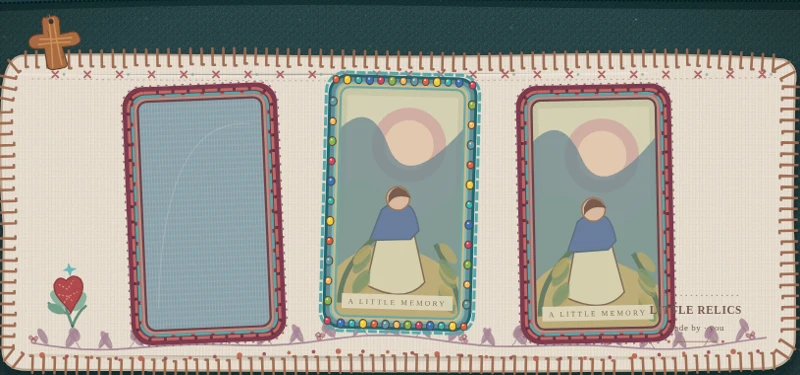
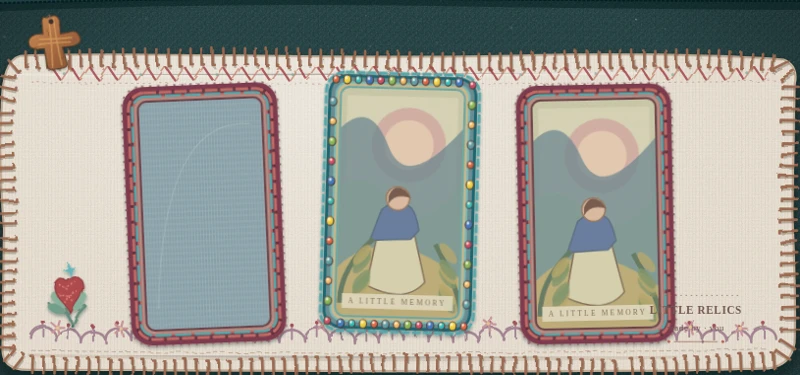
relics: original stitch motifs + fabric realism
Replace the vine wreath and cross-stitch rows with original
motifs: herringbone chevron band along the top edge and a
scalloped blanket-stitch hem with lazy-daisy sprigs at the
bottom.

Add material realism: wobble displacement on all thread
strokes, drop shadows under layers, glossy bead gradient,
wood gradient on the charm, cloth grain/sheen/edge shading.

diff --git a/relics.html b/relics.html
@@ -99,30 +99,37 @@ function defs(){const c=C();return `<defs>
 <filter id="feltGrain" x="0" y="0" width="100%" height="100%"><feTurbulence type="fractalNoise" baseFrequency=".59" numOctaves="3" seed="13" result="n"/><feColorMatrix in="n" type="saturate" values="0"/></filter>
 <filter id="clothGrain" x="0" y="0" width="100%" height="100%"><feTurbulence type="fractalNoise" baseFrequency=".8" numOctaves="2" seed="7"/><feColorMatrix type="saturate" values="0"/></filter>
 <filter id="soft"><feGaussianBlur stdDeviation="2.2"/></filter>
+<filter id="lift" x="-25%" y="-25%" width="150%" height="160%"><feDropShadow dx="0" dy="6" stdDeviation="5" flood-color="#1a2622" flood-opacity=".42"/></filter>
+<filter id="liftSm" x="-30%" y="-30%" width="160%" height="170%"><feDropShadow dx="0" dy="3" stdDeviation="2.5" flood-color="#1a2622" flood-opacity=".4"/></filter>
+<filter id="wobble" x="-5%" y="-5%" width="110%" height="110%"><feTurbulence type="fractalNoise" baseFrequency=".035" numOctaves="2" seed="5" result="t"/><feDisplacementMap in="SourceGraphic" in2="t" scale="7"/></filter>
+<radialGradient id="beadGrad" cx="35%" cy="28%" r="75%"><stop offset="0" stop-color="#fff" stop-opacity=".65"/><stop offset=".45" stop-color="#fff" stop-opacity="0"/><stop offset="1" stop-color="#000" stop-opacity=".32"/></radialGradient>
+<linearGradient id="woodGrad" x1="0" y1="0" x2="1" y2="1"><stop offset="0" stop-color="#c98d55"/><stop offset=".5" stop-color="#a96b43"/><stop offset="1" stop-color="#7d4e2f"/></linearGradient>
+<radialGradient id="edgeShade" cx="50%" cy="50%" r="72%"><stop offset="0" stop-color="#5a4636" stop-opacity="0"/><stop offset=".82" stop-color="#5a4636" stop-opacity="0"/><stop offset="1" stop-color="#4a382a" stop-opacity=".3"/></radialGradient>
+<radialGradient id="clothSheen" cx="42%" cy="30%" r="70%"><stop offset="0" stop-color="#fff" stop-opacity=".3"/><stop offset=".6" stop-color="#fff" stop-opacity=".05"/><stop offset="1" stop-color="#fff" stop-opacity="0"/></radialGradient>
 <radialGradient id="vignette" cx="50%" cy="46%" r="72%"><stop offset="55%" stop-color="#000" stop-opacity="0"/><stop offset="100%" stop-color="#000" stop-opacity=".4"/></radialGradient>
 <clipPath id="clothMask"><path d="${shape}"/></clipPath>
 ${S.layers.filter(l=>l.type==='frame').map(l=>`<clipPath id="clip-${escapeHTML(l.id)}"><rect x="${-l.w/2}" y="${-l.h/2}" width="${l.w}" height="${l.h}" rx="12"/></clipPath>`).join('')}
 </defs>`}
 function feltDust(){let o='';for(let i=0;i<380;i++){let x=(i*67.31)%1194+3,y=(i*121.73)%754+3,r=.35+(i%9)*.2;o+=`<circle cx="${rnd(x)}" cy="${rnd(y)}" r="${r}" fill="${i%4===0?'#f7efe2':'#9baaaa'}" opacity="${.07+(i%6)*.025}"/>`;}return o}
 function background(){let c=C();return `<rect width="1200" height="760" fill="url(#felt)"/>${S.background?`<image href="${S.background}" width="1200" height="760" preserveAspectRatio="xMidYMid slice" opacity="${S.backgroundOpacity}"/>`:''}<rect width="1200" height="760" filter="url(#feltGrain)" opacity=".18"/>${feltDust()}<rect width="1200" height="760" fill="url(#vignette)"/><path d="M-8 96 Q300 81 626 86 T1210 92" stroke="#021e1e" stroke-width="21" opacity=".5" fill="none"/><path d="M-8 90 Q300 79 626 81 T1210 85" stroke="#23474b" stroke-width="10" opacity=".7" fill="none"/><path d="M-8 95 Q300 84 626 87 T1210 90" stroke="#061d21" stroke-width="3" stroke-dasharray="4 2" fill="none"/><g fill="#c6d9d4"><g transform="translate(177 39) scale(1.25) translate(-177 -39)" opacity=".8"><path d="M177 39l3 6 7 2-6 5-1 7-6-5-7 1 2-7-4-5 7 0Z"/></g><g transform="translate(653 45) scale(.7) translate(-653 -45)" opacity=".55"><path d="M653 45l3 4 5 0-2 5 2 4-5-1-4 3-1-6-4-3 5-2Z"/></g><circle cx="548" cy="58" r="2.4" opacity=".7"/><circle cx="923" cy="115" r="1.2" opacity=".45"/><circle cx="420" cy="72" r="1.4" opacity=".5"/><g transform="translate(1150 142) scale(.95) translate(-1150 -142)" opacity=".7"><path d="M1150 142l4 4 6-2-1 6 4 4-6 1-2 5-3-5-5-1 4-5Z"/></g></g>`}
-function cloth(){let c=C(),s=pathToStitches(perimeter);return `<g filter="url(#paperShade)"><path d="${shape}" fill="url(#linen)" stroke="#cbb9a2" stroke-width="3"/></g><g clip-path="url(#clothMask)"><rect width="1200" height="760" filter="url(#clothGrain)" opacity=".13"/><path d="M72 190Q470 196 940 188" stroke="#fff" stroke-width="3" opacity=".23"/><path d="M90 572Q500 584 980 575" stroke="#896b50" opacity=".17" stroke-width="4"/></g><path d="${s}" fill="none" stroke="${c.thread}" stroke-width="3.5" stroke-linejoin="round" stroke-linecap="round" opacity=".96"/><path d="${shape}" fill="none" stroke="${c.thread}" stroke-width="1.1" opacity=".43"/>`}
+function cloth(){let c=C(),s=pathToStitches(perimeter);return `<g filter="url(#paperShade)"><path d="${shape}" fill="url(#linen)" stroke="#cbb9a2" stroke-width="3"/></g><g clip-path="url(#clothMask)"><rect width="1200" height="760" filter="url(#clothGrain)" opacity=".22"/><rect width="1200" height="760" fill="url(#edgeShade)"/><rect width="1200" height="760" fill="url(#clothSheen)"/><path d="M72 190Q470 196 940 188" stroke="#fff" stroke-width="3" opacity=".23"/><path d="M90 572Q500 584 980 575" stroke="#896b50" opacity=".17" stroke-width="4"/></g><g filter="url(#wobble)"><path d="${s}" fill="none" stroke="#4a3826" stroke-width="5" stroke-linejoin="round" opacity=".3" transform="translate(.8 2.2)"/><path d="${s}" fill="none" stroke="${c.thread}" stroke-width="3.5" stroke-linejoin="round" stroke-linecap="round" opacity=".96"/></g><path d="${shape}" fill="none" stroke="${c.thread}" stroke-width="1.1" opacity=".43"/>`}
 function blossom(x,y,s,rot,c1,c2){return `<g transform="translate(${x} ${y}) rotate(${rot}) scale(${s})"><path d="M0 0C-2-7-8-8-8-1Q-4 5 0 0C5-8 11-4 7 2Q2 5 0 0C-8 5-2 11 2 6Q4 3 0 0C9 3 6 11-1 8Q-4 4 0 0" fill="${c1}" stroke="${c2}" stroke-width="1.2"/><circle r="2.3" fill="${c2}"/></g>`}
-function bottomGarland(){let c=C(),out='',n=46;let coords=[];for(let i=0;i<=n;i++){let t=i/n,x=98+t*1004,y=556+7*Math.sin(t*Math.PI*3.2)+4*Math.sin(t*23);coords.push([x,y,t]);if(i%9===0)out+=blossom(rnd(x),rnd(y-6),.75,rnd(t*340),'#c99095','#8f5f66')}out+=`<path d="M${coords.map(p=>`${rnd(p[0])} ${rnd(p[1])}`).join(' L')}" fill="none" stroke="${c.violet}" stroke-width="2.3" opacity=".95"/>`;for(let i=1;i<n;i++){let [x,y]=coords[i],d=i%3===0?20:13,side=i%2?-1:1,px=x+side*9,py=y-d;out+=`<path d="M${rnd(x)} ${rnd(y)} Q${rnd(x+side*9)} ${rnd(y-d*.45)} ${rnd(px)} ${rnd(py)}" stroke="${c.violet}" stroke-width="1.3" fill="none"/><ellipse cx="${rnd(px)}" cy="${rnd(py)}" rx="${rnd(4+(i%4))}" ry="${rnd(10+(i%3)*2)}" transform="rotate(${rnd(side*30)} ${rnd(px)} ${rnd(py)})" fill="${c.violet}" opacity=".84"/><path d="M${rnd(x)} ${rnd(y-4)}L${rnd(px)} ${rnd(py)}" stroke="#e2c0bc" stroke-width=".7" opacity=".6"/>`}for(let i=0;i<30;i++){let t=i/29,x=110+t*980,y=572+5*Math.sin(t*11);out+=`<circle cx="${rnd(x)}" cy="${rnd(y)}" r="${i%4?2.5:3.7}" fill="${i%2?'#a04c52':'#bd6654'}"/>`}return `<g opacity=".94">${out}</g>`}
-function crossBand(){let c=C(),out='';for(let x=128;x<1110;x+=44){out+=`<path d="M${x-4} 186l8 8m-8 0l8 -8" stroke="#a34348" stroke-width="2.6" stroke-linecap="round" opacity=".78"/>`}for(let x=140;x<1110;x+=88){out+=`<circle cx="${x}" cy="190" r="2" fill="#7fa59c" opacity=".7"/>`}out+=`<path d="M96 196Q600 202 1120 194" stroke="${c.thread}" stroke-width="1.4" opacity=".4" fill="none" stroke-dasharray="3 5"/>`;return out}
+function hemStitch(){let c=C(),out='';for(let x=95;x<1105;x+=34){let y=552+3*Math.sin(x*.05);out+=`<path d="M${x} ${y}a17 15 0 0 1 34 0" fill="none" stroke="${c.violet}" stroke-width="3.4" stroke-linecap="round"/><path d="M${x+17} ${y-2}v-16" stroke="${c.violet}" stroke-width="2.6" stroke-linecap="round"/><circle cx="${x+17}" cy="${y-21}" r="2.6" fill="#a04c52"/>`}for(let i=0;i<14;i++){let x=130+i*72+((i*37)%20),y=534+4*Math.sin(i*2.1);for(let p=0;p<5;p++){let a=p/5*Math.PI*2;out+=`<path d="M${x} ${y}Q${x+Math.cos(a)*6} ${y+Math.sin(a)*6} ${x+Math.cos(a)*9} ${y+Math.sin(a)*10}" stroke="#c99095" stroke-width="3" fill="none" stroke-linecap="round"/>`}out+=`<circle cx="${x}" cy="${y}" r="2.4" fill="#e0c68d"/>`}out+=`<path d="M95 566Q600 574 1105 564" stroke="${c.thread}" stroke-width="1.3" opacity=".5" fill="none" stroke-dasharray="6 4"/>`;return `<g filter="url(#wobble)"><g opacity=".94">${out}</g></g>`}
+function crossBand(){let c=C(),out='';for(let x=124;x<1108;x+=26){let flip=(x/26)%2?1:-1;out+=`<path d="M${x} 181l${11*flip} 16" stroke="#a34348" stroke-width="3" stroke-linecap="round" opacity=".85"/><path d="M${x+13} 197l${11*flip} -16" stroke="#c07a63" stroke-width="2.2" stroke-linecap="round" opacity=".7"/>`}for(let x=140;x<1110;x+=104){out+=`<circle cx="${x}" cy="189" r="2" fill="#7fa59c" opacity=".7"/>`}out+=`<path d="M96 201Q600 206 1120 199" stroke="${c.thread}" stroke-width="1.4" opacity=".4" fill="none" stroke-dasharray="3 5"/>`;return `<g filter="url(#wobble)">${out}</g>`}
 function bluePlaceholder(w,h){return `<rect x="${-w/2}" y="${-h/2}" width="${w}" height="${h}" fill="url(#blueLinen)"/><path d="M${-w/2+16} ${h/2-28}Q-52 ${-h/2+20} 68 ${-h/2+35}" fill="none" stroke="#ccd3ca" opacity=".3" stroke-width="1.5"/>${Array.from({length:40},(_,i)=>{let x=(i*37)%w-w/2,y=(i*61)%h-h/2;return `<path d="M${x} ${y}l3 3" stroke="#d6e1de" opacity=".18"/>`}).join('')}`}
 function artPlaceholder(w,h){let x=-w/2,y=-h/2;return `<rect x="${x}" y="${y}" width="${w}" height="${h}" fill="url(#parchment)"/><rect x="${x+8}" y="${y+10}" width="${w-16}" height="${h-20}" fill="#ddd7bd" opacity=".6"/><circle cx="10" cy="${y+76}" r="51" fill="#cfa8a0" opacity=".85"/><circle cx="10" cy="${y+76}" r="34" fill="#e5cdb2" opacity=".85"/><path d="M${x} ${y+55} Q${x+40} ${y+15} ${x+66} ${y+78}T${x+w} ${y+52} L${x+w} ${y+h}H${x}Z" fill="#6e8790" opacity=".75"/><path d="M${x} ${y+134} Q-45 ${y+110} -10 ${y+155}T${x+w} ${y+128}L${x+w} ${y+h}H${x}Z" fill="#819c92" opacity=".6"/><path d="M${x} ${y+h-65}Q${x+67} ${y+h-132} ${x+w} ${y+h-55}V${y+h}H${x}Z" fill="#bcac79"/><path d="M-23 ${y+165}Q-5 ${y+142} 13 ${y+166}L37 ${y+h-48}Q10 ${y+h-16}-43 ${y+h-42}Z" fill="#d4cfac" stroke="#816c5a" stroke-width="2"/><path d="M-25 ${y+165}Q-5 ${y+148} 10 ${y+158}Q21 ${y+160} 27 ${y+192}L16 ${y+204}L-40 ${y+207}Z" fill="#6a7e9e" stroke="#5d6e80" stroke-width="2"/><circle cx="-3" cy="${y+149}" r="16" fill="#d9b9a0" stroke="#97785b" stroke-width="2"/><path d="M-16 ${y+146}Q-8 ${y+127} 7 ${y+138}L15 ${y+148}Q-7 ${y+141}-16 ${y+157}Z" fill="#785d4f"/><path d="M-35 ${y+205}q-45 42-44 88M50 ${y+210}q34 60 37 94" stroke="#697c65" stroke-width="7" fill="none"/>${Array.from({length:13},(_,i)=>{let xp=i%2?-50:68,yp=y+222+(i*17)%74;return `<ellipse cx="${xp}" cy="${yp}" rx="7" ry="17" transform="rotate(${i%2?40:-40} ${xp} ${yp})" fill="${i%3?'#83966e':'#b6a66c'}" opacity=".8"/>`}).join('')}<rect x="${x+8}" y="${y+h-30}" width="${w-16}" height="20" fill="#e0d9c0" opacity=".88"/><text x="0" y="${y+h-16}" font-family="Georgia,serif" font-size="10" letter-spacing="3" fill="#86705c" text-anchor="middle">A LITTLE MEMORY</text>`}
 function frame(l){let c=C(),w=l.w,h=l.h,ex=w/2,ey=h/2,bead=l.frame==='bead';let s=`<g clip-path="url(#clip-${escapeHTML(l.id)})">${l.image?`<image href="${l.image}" x="${-ex}" y="${-ey}" width="${w}" height="${h}" preserveAspectRatio="xMidYMid slice"/>`:(l.id==='frameA'?bluePlaceholder(w,h):artPlaceholder(w,h))}</g>`;
 s=`<rect x="${-ex-18}" y="${-ey-18}" width="${w+36}" height="${h+36}" rx="27" fill="${bead?'#29464a':'#684653'}" opacity=".35"/><rect x="${-ex-16}" y="${-ey-16}" width="${w+32}" height="${h+32}" rx="24" fill="${bead?'#6a8c92':'#6d3c48'}" stroke="${bead?'#1c6670':'#5b2e38'}" stroke-width="4"/><rect x="${-ex-7}" y="${-ey-7}" width="${w+14}" height="${h+14}" rx="16" fill="${bead?'#cdb889':'#b68f86'}" stroke="${bead?'#7eb9b4':'#b66f69'}" stroke-width="3"/>${s}<rect x="${-ex-1}" y="${-ey-1}" width="${w+2}" height="${h+2}" rx="12" fill="none" stroke="${bead?'#6ca7a3':'#6c4249'}" stroke-width="3"/>`;
-if(bead){const colors=['#df633e','#f2ce37','#2fbbb6','#3975bb','#d14862','#86b54e','#f3b95f','#5d9ca4'];let arr=[];for(let i=0;i<48;i++){let a=i/48*Math.PI*2,xx,yy,offset=8;const seg=i/12|0,t=(i%12)/12;if(seg===0){xx=-ex-8+t*(w+16);yy=-ey-11}else if(seg===1){xx=ex+11;yy=-ey-8+t*(h+16)}else if(seg===2){xx=ex+8-t*(w+16);yy=ey+11}else{xx=-ex-11;yy=ey+8-t*(h+16)}arr.push(`<ellipse cx="${rnd(xx)}" cy="${rnd(yy)}" rx="${i%2?5:4.5}" ry="${i%2?6:5}" fill="${colors[i%colors.length]}" stroke="#5b4641" stroke-width="1.5"/><circle cx="${rnd(xx-1)}" cy="${rnd(yy-2)}" r="1.3" fill="#fff8da" opacity=".75"/>`)}s+=`<rect x="${-ex-21}" y="${-ey-21}" width="${w+42}" height="${h+42}" rx="26" fill="none" stroke="${c.accent}" stroke-dasharray="12 3" stroke-width="4"/>${arr.join('')}`}
+if(bead){const colors=['#df633e','#f2ce37','#2fbbb6','#3975bb','#d14862','#86b54e','#f3b95f','#5d9ca4'];let arr=[];for(let i=0;i<48;i++){let a=i/48*Math.PI*2,xx,yy,offset=8;const seg=i/12|0,t=(i%12)/12;if(seg===0){xx=-ex-8+t*(w+16);yy=-ey-11}else if(seg===1){xx=ex+11;yy=-ey-8+t*(h+16)}else if(seg===2){xx=ex+8-t*(w+16);yy=ey+11}else{xx=-ex-11;yy=ey+8-t*(h+16)}arr.push(`<ellipse cx="${rnd(xx)}" cy="${rnd(yy)}" rx="${i%2?5:4.5}" ry="${i%2?6:5}" fill="${colors[i%colors.length]}" stroke="#5b4641" stroke-width="1.5"/><ellipse cx="${rnd(xx)}" cy="${rnd(yy)}" rx="${i%2?5:4.5}" ry="${i%2?6:5}" fill="url(#beadGrad)"/><circle cx="${rnd(xx-1)}" cy="${rnd(yy-2)}" r="1.3" fill="#fff8da" opacity=".8"/>`)}s+=`<rect x="${-ex-21}" y="${-ey-21}" width="${w+42}" height="${h+42}" rx="26" fill="none" stroke="${c.accent}" stroke-dasharray="12 3" stroke-width="4"/>${arr.join('')}`}
 else{s+=`<rect x="${-ex-19}" y="${-ey-18}" width="${w+38}" height="${h+36}" rx="25" fill="none" stroke="#7e3a4f" stroke-width="6"/><rect x="${-ex-14}" y="${-ey-13}" width="${w+28}" height="${h+26}" rx="22" fill="none" stroke="#c06b65" stroke-width="4" stroke-dasharray="17 4"/><rect x="${-ex-9}" y="${-ey-8}" width="${w+18}" height="${h+16}" rx="19" fill="none" stroke="${c.accent}" stroke-width="3.5" stroke-dasharray="22 5"/><rect x="${-ex-23}" y="${-ey-22}" width="${w+46}" height="${h+44}" rx="28" fill="none" stroke="#8e6b62" stroke-width="2" stroke-dasharray="3 8"/>`}
 return s}
-function woodCharm(){return `<path d="M-17 -73Q-26 -80-29 -63L-30 -30Q-64 -35-71 -16Q-76 6-51 9L-31 10L-29 55Q-28 71-12 70L17 68Q28 66 25 53L18 12L48 12Q77 7 68-11Q64-31 42-26L17-24L19-61Q15-80-2-75Z" fill="#a96b43" stroke="#5e402a" stroke-width="3"/><path d="M-10-64Q-8-20-15 65M3-70Q4 1 11 61M-42-17Q-9-12 48-11M-47-3Q-5-4 43 1" stroke="#e2af65" stroke-width="4" opacity=".6" fill="none"/><path d="M-20-41Q-12-33-15-21M12 23Q22 37 15 45M-59 3Q-52 6-45 4" stroke="#6d442c" stroke-width="2.5" opacity=".5" fill="none"/><circle cx="-4" cy="-61" r="7" fill="#3b3330"/><path d="M-6-70v-9" stroke="#8c6d60" stroke-width="3"/><path d="M-4-79c-10-3-11 7-9 10" stroke="#725d4c" stroke-width="2" fill="none"/>`}
-function embroideredFlower(){let c=C();return `<path d="M0 15Q-7-16-10-33M0 14Q11-6 24-13M-2-5Q-23-10-31-25" stroke="#638b7c" stroke-width="4" stroke-linecap="round" fill="none"/><ellipse cx="-14" cy="-29" rx="9" ry="17" fill="#8ab29b" transform="rotate(-42 -14 -29)"/><ellipse cx="15" cy="-21" rx="9" ry="16" fill="#8ab29b" transform="rotate(41 15 -21)"/><ellipse cx="-21" cy="-15" rx="7" ry="14" fill="#739e8b" transform="rotate(-60 -21 -15)"/><path d="M0-6C-5-20-24-34-19-52Q-10-66 0-55Q12-66 22-54Q29-38 9-18Z" fill="#af4b4d" stroke="#913b41" stroke-width="2"/><path d="M-12-51l12 9 11-12M-15-36l15 5 15-5M-8-22L0-31l6 9" stroke="#dd8b7c" fill="none" stroke-width="2" stroke-dasharray="3 3"/><path d="M7-82l3 9 9 2-9 3-3 8-3-9-8-2 8-3Z" fill="#68b6bb"/><circle cy="14" r="2" fill="#47675c"/>`}
+function woodCharm(){return `<path d="M-17 -73Q-26 -80-29 -63L-30 -30Q-64 -35-71 -16Q-76 6-51 9L-31 10L-29 55Q-28 71-12 70L17 68Q28 66 25 53L18 12L48 12Q77 7 68-11Q64-31 42-26L17-24L19-61Q15-80-2-75Z" fill="url(#woodGrad)" stroke="#5e402a" stroke-width="3"/><path d="M-10-64Q-8-20-15 65M3-70Q4 1 11 61M-42-17Q-9-12 48-11M-47-3Q-5-4 43 1" stroke="#e2af65" stroke-width="4" opacity=".6" fill="none"/><path d="M-20-41Q-12-33-15-21M12 23Q22 37 15 45M-59 3Q-52 6-45 4" stroke="#6d442c" stroke-width="2.5" opacity=".5" fill="none"/><circle cx="-4" cy="-61" r="7" fill="#3b3330"/><path d="M-6-70v-9" stroke="#8c6d60" stroke-width="3"/><path d="M-4-79c-10-3-11 7-9 10" stroke="#725d4c" stroke-width="2" fill="none"/>`}
+function embroideredFlower(){let c=C();return `<g filter="url(#wobble)"><path d="M0 15Q-7-16-10-33M0 14Q11-6 24-13M-2-5Q-23-10-31-25" stroke="#638b7c" stroke-width="4" stroke-linecap="round" fill="none"/><ellipse cx="-14" cy="-29" rx="9" ry="17" fill="#8ab29b" transform="rotate(-42 -14 -29)"/><ellipse cx="15" cy="-21" rx="9" ry="16" fill="#8ab29b" transform="rotate(41 15 -21)"/><ellipse cx="-21" cy="-15" rx="7" ry="14" fill="#739e8b" transform="rotate(-60 -21 -15)"/><path d="M0-6C-5-20-24-34-19-52Q-10-66 0-55Q12-66 22-54Q29-38 9-18Z" fill="#af4b4d" stroke="#913b41" stroke-width="2"/><path d="M-12-51l12 9 11-12M-15-36l15 5 15-5M-8-22L0-31l6 9" stroke="#dd8b7c" fill="none" stroke-width="2" stroke-dasharray="3 3"/><path d="M7-82l3 9 9 2-9 3-3 8-3-9-8-2 8-3Z" fill="#68b6bb"/><circle cy="14" r="2" fill="#47675c"/></g>`}
 function flowerDecor(l){return embroideredFlower()}
 function motif(l){let type=l.type;switch(type){case 'frame':return frame(l);case 'charm':return woodCharm();case 'flower':return embroideredFlower();case 'sprig':return `<path d="M0 61Q-3 0 2-59" stroke="#8c8696" fill="none" stroke-width="3"/>${Array.from({length:11},(_,i)=>{let y=-53+i*11,side=i%2?-1:1;return `<path d="M0 ${y+4}Q${side*13} ${y-15} ${side*34} ${y-12}Q${side*18} ${y+6} 0 ${y+4}Z" fill="${C().violet}" stroke="#d8b2bb" stroke-width="1.2"/>`}).join('')}`;case 'patch':return `<path d="M-69-51Q-5-57 66-50L74 43Q13 54-67 48Z" fill="${C().plum}" stroke="${C().thread}" stroke-width="2"/><path d="M-59 -43L56 -41L61 37L-58 37Z" fill="none" stroke="#c8a0a4" stroke-width="2.2" stroke-dasharray="9 5"/>`;case 'star':return `<path d="M0-48L10-12L45-5L13 12L0 48L-11 12L-46-4L-10-13Z" fill="#b88a6a" stroke="#745143" stroke-width="3"/><path d="M0-42v84M-38-4h76" stroke="#f8deb1" stroke-dasharray="3 5" stroke-width="3"/>`;case 'label':return `<g text-anchor="middle" fill="${S.text.color||'#74584f'}"><path d="M-63-37H63" stroke="${C().thread}" stroke-width="1" stroke-dasharray="2 5"/><text y="-12" font-family="${S.text.font==='sans'?'Arial,sans-serif':S.text.font==='italic'?'Georgia,serif':'Georgia,serif'}" font-style="${S.text.font==='italic'?'italic':'normal'}" font-size="${S.text.size||18}" letter-spacing="1" font-weight="600" textLength="${Math.min(138,Math.max(45,S.text.title.length*(S.text.size||18)*.54))}" lengthAdjust="spacingAndGlyphs">${escapeHTML(S.text.title)}</text><text y="11" font-family="Georgia,serif" font-size="12" letter-spacing=".8">${escapeHTML(S.text.maker)}</text><path d="M-30 26h60" stroke="${C().thread}" stroke-width="1"/><circle cx="-37" cy="26" r="2" fill="#b76760"/><circle cx="37" cy="26" r="2" fill="#b76760"/></g>`;default:return ''}}
 function bgEmbroidery(){let out='';for(let i=0;i<7;i++){const x=490+i*11,y=690+(i%3)*6;out+=`<path d="M${x} ${y}q8-18 16-1q7 8 15-3" stroke="#0d1620" stroke-width="2.1" opacity=".34" fill="none"/>`}return `<path d="M360 749Q430 690 492 710T600 706T730 709T875 748" fill="none" stroke="#0b1f26" stroke-width="5" opacity=".38"/><path d="M430 752Q498 676 549 700Q590 717 612 662Q634 706 694 693T805 756" fill="none" stroke="#15292e" stroke-width="6" opacity=".32"/>${out}`}
 function controlOutline(l){if(S.selected!==l.id)return '';let w=l.w/2+26,h=l.h/2+26;return `<g pointer-events="none"><rect x="${-w}" y="${-h}" width="${w*2}" height="${h*2}" rx="8" stroke="#e0c68d" stroke-dasharray="7 5" stroke-width="2.5" fill="none"/><path d="M0 ${-h}v-28" stroke="#e0c68d" stroke-width="2"/></g><g><circle data-handle="scale" data-id="${l.id}" cx="${w}" cy="${h}" r="10.5" fill="#d8b37b" stroke="#233a36" stroke-width="3"/><path d="M${w-4} ${h}l7 0m-2.5-4l2.5 4-2.5 4" stroke="#294237" stroke-width="1.8" pointer-events="none"/><circle data-handle="rotate" data-id="${l.id}" cx="0" cy="${-h-26}" r="10.5" fill="#d8b37b" stroke="#233a36" stroke-width="3"/><path d="M-4 ${-h-28}a5.5 5.5 0 1 1 3.5 7" fill="none" stroke="#294237" stroke-width="2" pointer-events="none"/></g>`}
-function render(){let out=defs()+background()+bgEmbroidery()+cloth()+crossBand()+bottomGarland();for(let l of S.layers){if(!l.visible)continue;out+=`<g class="scene-layer" data-id="${escapeHTML(l.id)}" transform="translate(${rnd(l.x)} ${rnd(l.y)}) rotate(${rnd(l.rotation)}) scale(${rnd(l.scale)})" style="touch-action:none">${motif(l)}${controlOutline(l)}</g>`}scene.innerHTML=out;document.getElementById('count').textContent=`${S.layers.length} 个独立图层`}
+function render(){let out=defs()+background()+bgEmbroidery()+cloth()+crossBand()+hemStitch();for(let l of S.layers){if(!l.visible)continue;const filt=l.type==='label'?'':' filter="url(#liftSm)"';out+=`<g class="scene-layer" data-id="${escapeHTML(l.id)}" transform="translate(${rnd(l.x)} ${rnd(l.y)}) rotate(${rnd(l.rotation)}) scale(${rnd(l.scale)})" style="touch-action:none"${filt}>${motif(l)}${controlOutline(l)}</g>`}scene.innerHTML=out;document.getElementById('count').textContent=`${S.layers.length} 个独立图层`}
 function fillColor(label,key){return `<label>${label}<input class="field" type="color" data-color="${key}" value="${escapeHTML(S.colors[key])}"></label>`}
 function itemButtons(){return `<div class="row3"><button class="add-item" data-add="sprig">✿ 绣花枝</button><button class="add-item" data-add="patch">▤ 旧布片</button><button class="add-item" data-add="star">✧ 星针绣</button></div>`}
 function slider(label,key,min,max,step,value,suffix=''){return `<div class="control"><label>${label}<output>${rnd(value)}${suffix}</output></label><input type="range" data-edit="${key}" min="${min}" max="${max}" step="${step}" value="${value}"></div>`}
